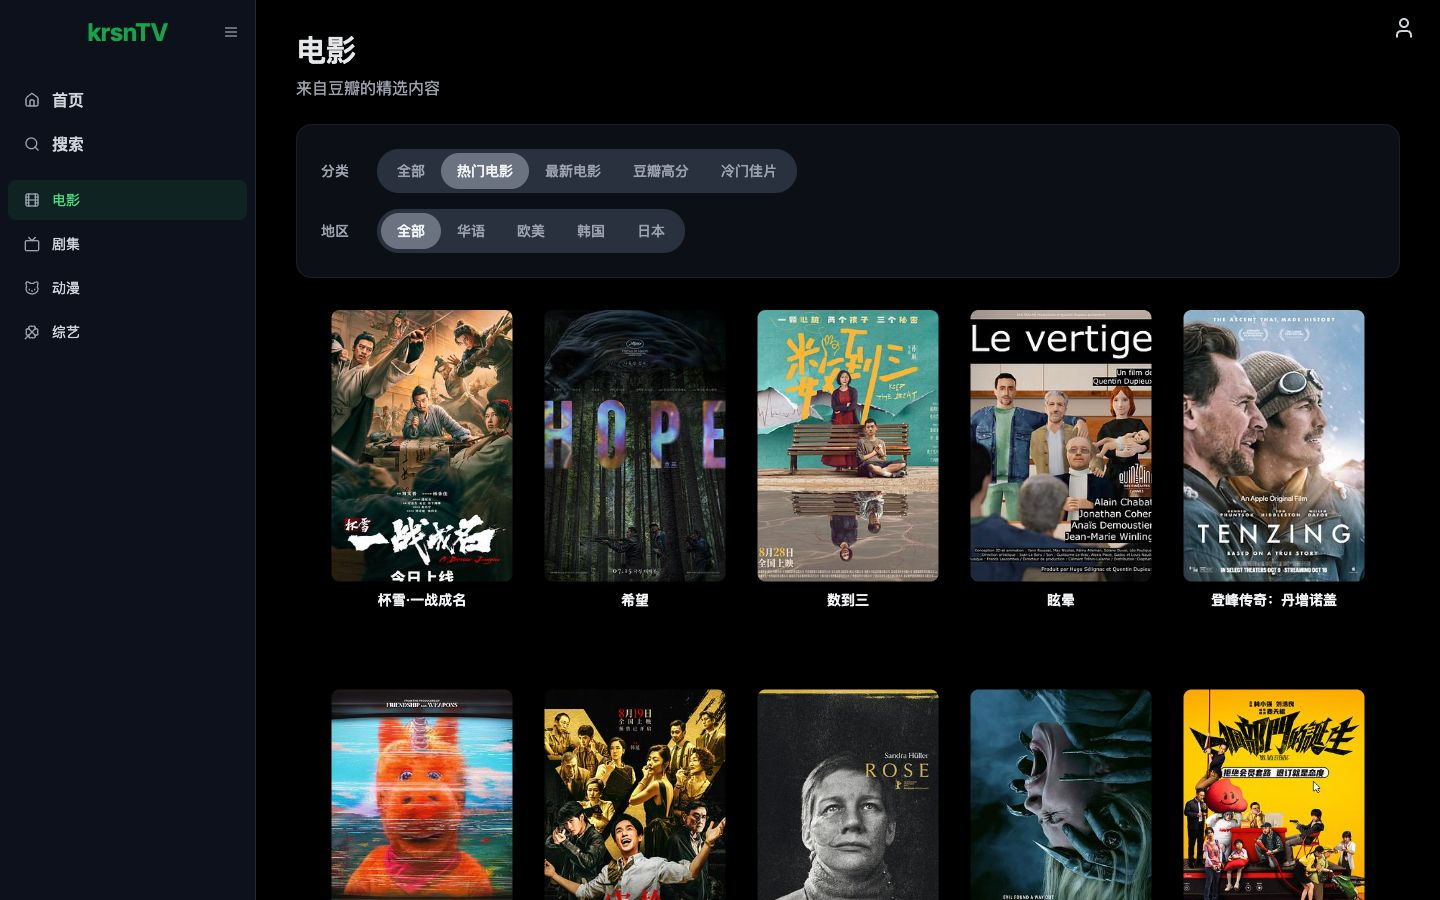
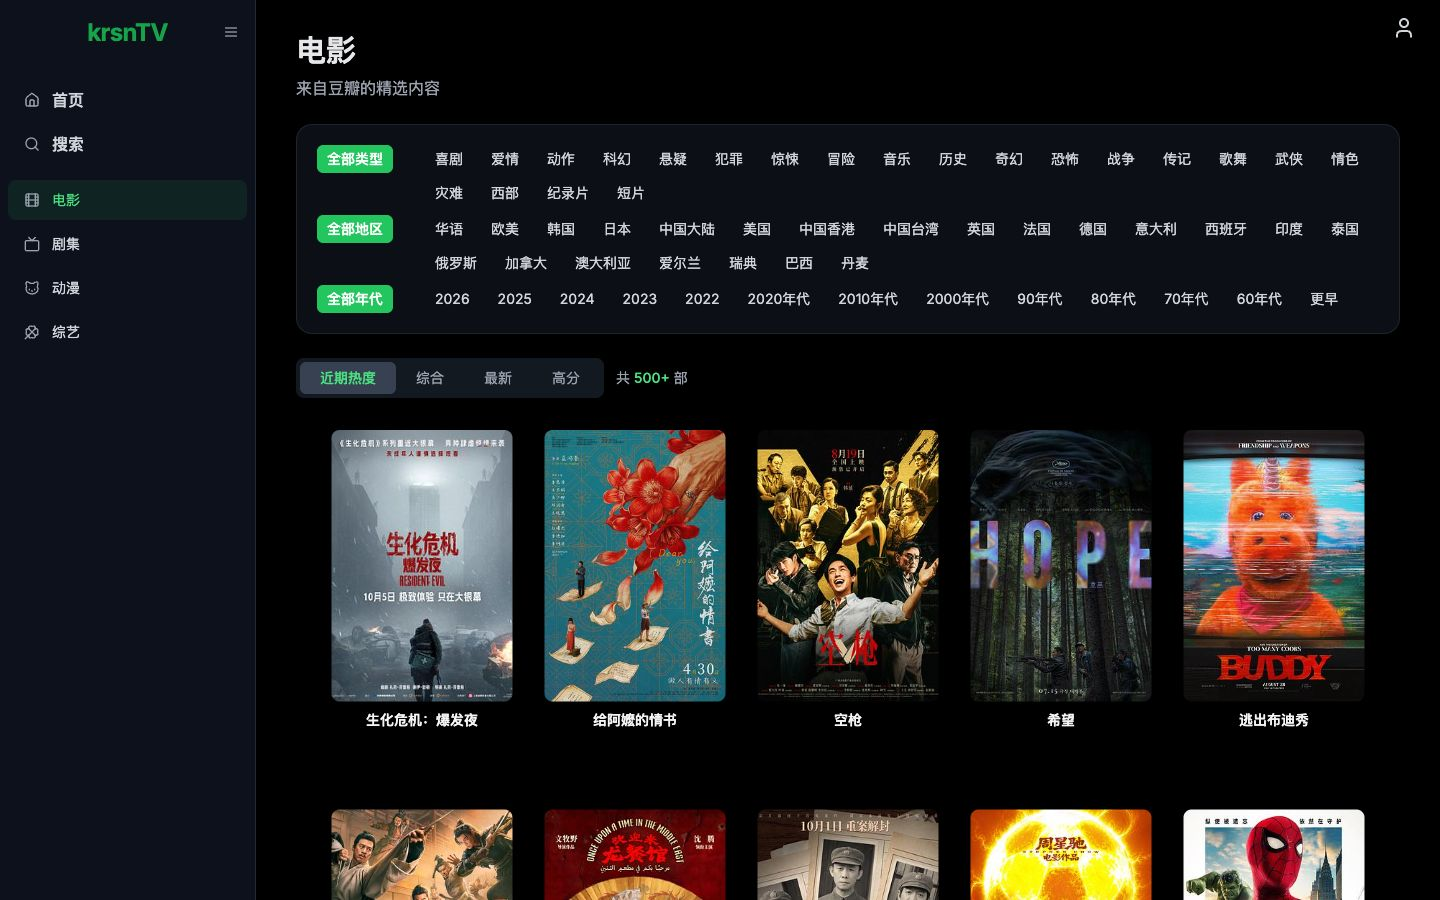
docs: update the README for the new filter panel
Replace the Listing screenshot and describe the filter rows, the four
sort orders, and the result count.

diff --git a/README.md b/README.md
@@ -20,8 +20,8 @@
 
 ## ✨ Features
 
-- 🧭 **Browse by Channel**: each Channel (movies, TV series, anime, variety shows) opens on a page of Shelves. Each Shelf leads to a full Listing with filters and numbered pages.
-- 🔗 **Shareable Listings**: filters and the page number are in the URL, so reload, Back, and shared links show the same results.
+- 🧭 **Browse by Channel**: each Channel (movies, TV series, anime, variety shows) opens on a page of Shelves. Each Shelf leads to a full Listing with filter rows (type, region, year, platform), four sort orders (popular, overall, newest, top rated), the result count, and numbered pages.
+- 🔗 **Shareable Listings**: filters, sort, and the page number are in the URL, so reload, Back, and shared links show the same results.
 - 🔍 **Multi-source search**: searches every video source at the same time and streams the results.
 - ▶ **Fast playback**: playback starts at the first matching source. Sources that keep failing are skipped for 30 minutes.
 - 📺 **Player**: HLS.js and ArtPlayer, with AirPlay on Safari and iOS, and an experimental filter for ad segments.
